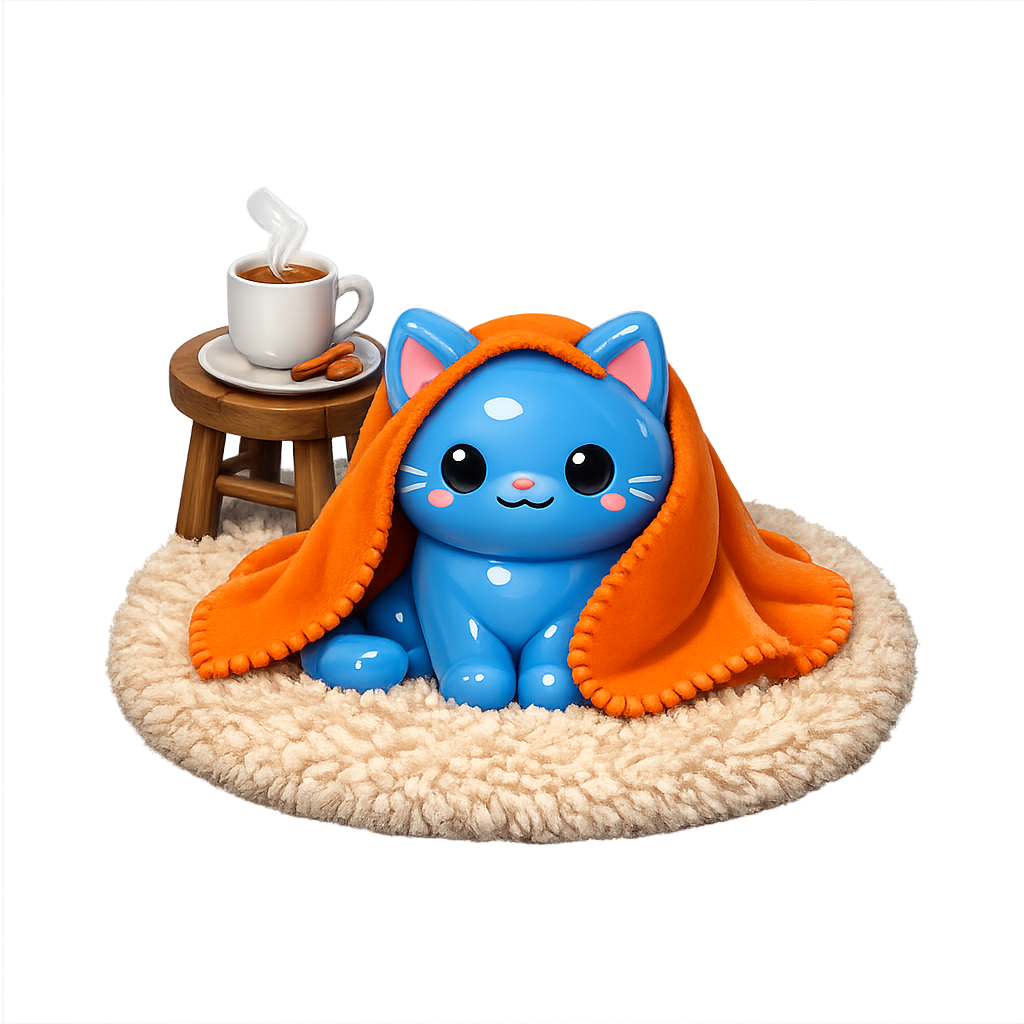
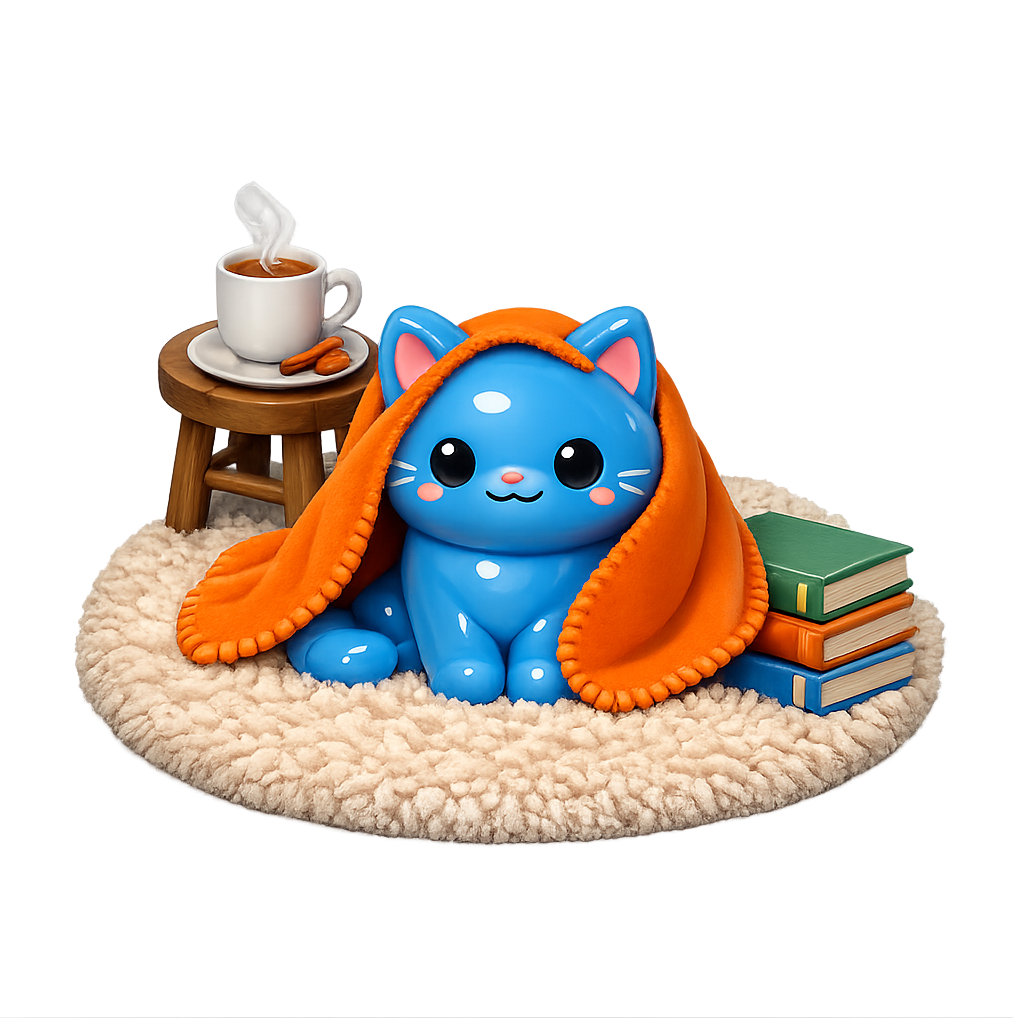
Replace cat image with bookshelf variant and fix scene container height
- Swap cozy-cat.png for new Figma asset featuring cat with books beside it
- Increase CozyCatScene container height from 210→270px to fully contain cat image (prevents compositor layer seam on dark+cozy mode)

Changed region(s): [[0.0612, 0.2132, 0.9487, 0.8527], [0.2142, 0.1827, 0.2448, 0.2132]]

diff --git a/components/CozyCatScene.tsx b/components/CozyCatScene.tsx
@@ -19,7 +19,7 @@ const EMBERS = [
 // Rendered inside the scroll container — only visible when the user scrolls to the bottom.
 export default function CozyCatScene() {
   return (
-    <div className="relative w-full" style={{ height: 210 }}>
+    <div className="relative w-full" style={{ height: 270 }}>
 
       {/* Cat — behind the fire */}
       {/* eslint-disable-next-line @next/next/no-img-element */}
